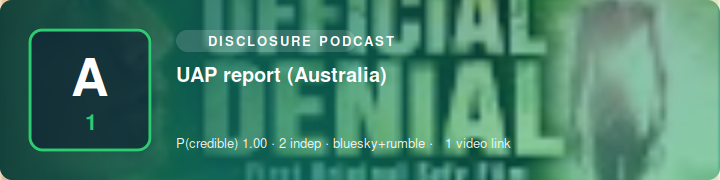
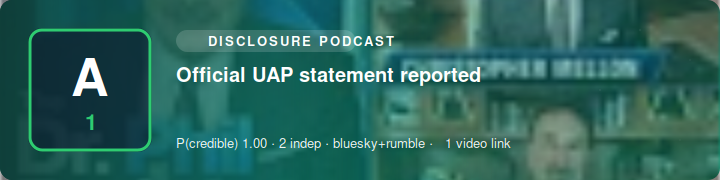
SITREP 2026-08-03 00:30 UTC

diff --git a/index.html b/index.html
@@ -1,1 +1,1 @@
-<!doctype html><meta charset=utf-8><title>Science Bob News — SITREP</title><style>body{font:16px/1.5 system-ui,sans-serif;max-width:760px;margin:2rem auto;padding:0 1rem;color:#111}h1{font-size:1.5rem}h2{margin-top:1.6rem;border-bottom:1px solid #ddd;padding-bottom:.2rem}ul{list-style:none;padding:0}li{margin:.9rem 0}.hl{font-weight:600}.meta{color:#555;font-size:.85rem}.src{font-size:.85rem}.vid{font-size:.85rem;margin-top:.15rem}.card{display:block;max-width:100%;height:auto;border-radius:8px;margin:.4rem 0 .5rem}.upd{background:#fde68a;padding:0 .3rem;border-radius:.2rem;font-size:.75rem}.sub{color:#777;font-size:.85rem}footer{color:#777;font-size:.8rem;margin-top:2rem;border-top:1px solid #ddd;padding-top:.6rem}</style><h1>🛸 Science Bob News</h1><div class="sub">UAP / UFO / USO SITREP · updated 2026-08-03 00:20 UTC · automated</div><h2>Corroborated</h2><ul><li><img class="card" src="https://n4hy.github.io/sciencebobnews-site/card_c_1.svg" alt="" width="720" height="180"><div class="hl">UAP report (Australia)</div><div class="meta">reliability <b>A1</b> · P(credible)=1.0 · 2 independent source(s) · bluesky+rumble</div><div class="src"><a href="https://www.youtube.com/watch?v=ZegQhxJrJGo">@podcast</a> · <a href="https://bsky.app/profile/did:plc:cwzxxtan4z22hv6jl3emlgjv/post/3ms53gbpdd222">@did:plc:cwzxxtan4z22hv6jl3emlgjv</a></div><div class="vid">📹 <a href="https://www.youtube.com/watch?v=ZegQhxJrJGo">video</a></div></li><li><img class="card" src="https://n4hy.github.io/sciencebobnews-site/card_c_2.svg" alt="" width="720" height="180"><div class="hl">UAP report</div><div class="meta">reliability <b>A1</b> · P(credible)=1.0 · 2 independent source(s) · mastodon</div><div class="src"><a href="https://mastodon.au/@vibewire/117027404399127988">@vibewire@mastodon.au</a> · <a href="https://beige.party/@TresFluke/117028360059260175">@TresFluke@beige.party</a></div></li><li><img class="card" src="https://n4hy.github.io/sciencebobnews-site/card_c_3.svg" alt="" width="720" height="180"><div class="hl">UAP report</div><div class="meta">reliability <b>A1</b> · P(credible)=1.0 · 4 independent source(s) · mastodon</div><div class="src"><a href="https://zirk.us/@Doomscroll/117028230320711419">@Doomscroll@zirk.us</a> · <a href="https://infosec.exchange/@n_dimension/117028016111436423">@n_dimension@infosec.exchange</a></div></li></ul><h2>Developing / unconfirmed</h2><ul><li><img class="card" src="https://n4hy.github.io/sciencebobnews-site/card_d_1.svg" alt="" width="720" height="180"><div class="hl">UAP report</div><div class="meta">reliability <b>A1</b> · P(credible)=1.0 · 1 independent source(s) · mastodon</div><div class="src"><a href="https://hachyderm.io/@pragmaticmarg/117010094817149557">@pragmaticmarg@hachyderm.io</a></div></li><li><img class="card" src="https://n4hy.github.io/sciencebobnews-site/card_d_2.svg" alt="" width="720" height="180"><div class="hl">UAP report</div><div class="meta">reliability <b>A1</b> · P(credible)=1.0 · 1 independent source(s) · mastodon</div><div class="src"><a href="https://mastodon.social/@veryexcitingtime/117028427311169939">@veryexcitingtime</a></div></li><li><img class="card" src="https://n4hy.github.io/sciencebobnews-site/card_d_3.svg" alt="" width="720" height="180"><div class="hl">Official UAP statement reported (Your)</div><div class="meta">reliability <b>A1</b> · P(credible)=1.0 · 1 independent source(s) · mastodon</div><div class="src"><a href="https://mastodon.au/@vibewire/117020694971279197">@vibewire@mastodon.au</a></div></li><li><img class="card" src="https://n4hy.github.io/sciencebobnews-site/card_d_4.svg" alt="" width="720" height="180"><div class="hl">UAP report (Moon)</div><div class="meta">reliability <b>A1</b> · P(credible)=1.0 · 1 independent source(s) · mastodon</div><div class="src"><a href="https://mastodon.au/@vibewire/117001180457773006">@vibewire@mastodon.au</a></div></li><li><img class="card" src="https://n4hy.github.io/sciencebobnews-site/card_d_5.svg" alt="" width="720" height="180"><div class="hl">UAP report (Early)</div><div class="meta">reliability <b>A1</b> · P(credible)=1.0 · 1 independent source(s) · rumble</div><div class="src"><a href="https://www.youtube.com/watch?v=IyTeV6kko5A">@podcast</a></div><div class="vid">📹 <a href="https://www.youtube.com/watch?v=IyTeV6kko5A">video</a></div></li></ul><footer><b>Powered by Science Bob News.</b> Free to use with credit (see LICENSE). Headlines are factual restatements in the engine's own words; click sources for originals. Single-origin reposts collapse to one source; prosaic candidates flagged where offered.</footer>
+<!doctype html><meta charset=utf-8><title>Science Bob News — SITREP</title><style>body{font:16px/1.5 system-ui,sans-serif;max-width:760px;margin:2rem auto;padding:0 1rem;color:#111}h1{font-size:1.5rem}h2{margin-top:1.6rem;border-bottom:1px solid #ddd;padding-bottom:.2rem}ul{list-style:none;padding:0}li{margin:.9rem 0}.hl{font-weight:600}.meta{color:#555;font-size:.85rem}.src{font-size:.85rem}.vid{font-size:.85rem;margin-top:.15rem}.card{display:block;max-width:100%;height:auto;border-radius:8px;margin:.4rem 0 .5rem}.upd{background:#fde68a;padding:0 .3rem;border-radius:.2rem;font-size:.75rem}.sub{color:#777;font-size:.85rem}footer{color:#777;font-size:.8rem;margin-top:2rem;border-top:1px solid #ddd;padding-top:.6rem}</style><h1>🛸 Science Bob News</h1><div class="sub">UAP / UFO / USO SITREP · updated 2026-08-03 00:30 UTC · automated</div><h2>Corroborated</h2><ul><li><img class="card" src="https://n4hy.github.io/sciencebobnews-site/card_c_1.svg" alt="" width="720" height="180"><div class="hl">Official UAP statement reported</div><div class="meta">reliability <b>A1</b> · P(credible)=1.0 · 2 independent source(s) · bluesky+rumble</div><div class="src"><a href="https://www.youtube.com/watch?v=QscaracBciE">@podcast</a> · <a href="https://bsky.app/profile/did:plc:4ohgm56lvrcj6p7kjgxz5wey/post/3ms54bzz3vu2p">@did:plc:4ohgm56lvrcj6p7kjgxz5wey</a></div><div class="vid">📹 <a href="https://www.youtube.com/watch?v=QscaracBciE">video</a></div></li><li><img class="card" src="https://n4hy.github.io/sciencebobnews-site/card_c_2.svg" alt="" width="720" height="180"><div class="hl">UAP report</div><div class="meta">reliability <b>A1</b> · P(credible)=1.0 · 2 independent source(s) · mastodon</div><div class="src"><a href="https://mastodon.au/@vibewire/117027404399127988">@vibewire@mastodon.au</a> · <a href="https://beige.party/@TresFluke/117028360059260175">@TresFluke@beige.party</a></div></li><li><img class="card" src="https://n4hy.github.io/sciencebobnews-site/card_c_3.svg" alt="" width="720" height="180"><div class="hl">UAP report</div><div class="meta">reliability <b>A1</b> · P(credible)=1.0 · 4 independent source(s) · mastodon</div><div class="src"><a href="https://zirk.us/@Doomscroll/117028230320711419">@Doomscroll@zirk.us</a> · <a href="https://infosec.exchange/@n_dimension/117028016111436423">@n_dimension@infosec.exchange</a></div></li></ul><h2>Developing / unconfirmed</h2><ul><li><img class="card" src="https://n4hy.github.io/sciencebobnews-site/card_d_1.svg" alt="" width="720" height="180"><div class="hl">UAP report</div><div class="meta">reliability <b>A1</b> · P(credible)=1.0 · 1 independent source(s) · mastodon</div><div class="src"><a href="https://hachyderm.io/@pragmaticmarg/117010094817149557">@pragmaticmarg@hachyderm.io</a></div></li><li><img class="card" src="https://n4hy.github.io/sciencebobnews-site/card_d_2.svg" alt="" width="720" height="180"><div class="hl">UAP report</div><div class="meta">reliability <b>A1</b> · P(credible)=1.0 · 1 independent source(s) · mastodon</div><div class="src"><a href="https://mastodon.social/@veryexcitingtime/117028427311169939">@veryexcitingtime</a></div></li><li><img class="card" src="https://n4hy.github.io/sciencebobnews-site/card_d_3.svg" alt="" width="720" height="180"><div class="hl">Official UAP statement reported (Your)</div><div class="meta">reliability <b>A1</b> · P(credible)=1.0 · 1 independent source(s) · mastodon</div><div class="src"><a href="https://mastodon.au/@vibewire/117020694971279197">@vibewire@mastodon.au</a></div></li><li><img class="card" src="https://n4hy.github.io/sciencebobnews-site/card_d_4.svg" alt="" width="720" height="180"><div class="hl">UAP report (Moon)</div><div class="meta">reliability <b>A1</b> · P(credible)=1.0 · 1 independent source(s) · mastodon</div><div class="src"><a href="https://mastodon.au/@vibewire/117001180457773006">@vibewire@mastodon.au</a></div></li><li><img class="card" src="https://n4hy.github.io/sciencebobnews-site/card_d_5.svg" alt="" width="720" height="180"><div class="hl">UAP report (Early)</div><div class="meta">reliability <b>A1</b> · P(credible)=1.0 · 1 independent source(s) · rumble</div><div class="src"><a href="https://www.youtube.com/watch?v=IyTeV6kko5A">@podcast</a></div><div class="vid">📹 <a href="https://www.youtube.com/watch?v=IyTeV6kko5A">video</a></div></li></ul><footer><b>Powered by Science Bob News.</b> Free to use with credit (see LICENSE). Headlines are factual restatements in the engine's own words; click sources for originals. Single-origin reposts collapse to one source; prosaic candidates flagged where offered.</footer>

diff --git a/sitrep.md b/sitrep.md
@@ -1,13 +1,13 @@
 # 🛸 Science Bob News — UAP / UFO / USO SITREP
-*Updated 2026-08-03 00:20 UTC · auto-generated · sources credited & linked · reliability ratings are automated, not editorial*
+*Updated 2026-08-03 00:30 UTC · auto-generated · sources credited & linked · reliability ratings are automated, not editorial*
 
 ## Corroborated
 
-![UAP report (Australia)](https://n4hy.github.io/sciencebobnews-site/card_c_1.svg)
-1. **UAP report (Australia)**  
+![Official UAP statement reported](https://n4hy.github.io/sciencebobnews-site/card_c_1.svg)
+1. **Official UAP statement reported**  
    reliability **A1** · P(credible)=1.0 · 2 independent source(s) · bluesky+rumble  
-   [@podcast](https://www.youtube.com/watch?v=ZegQhxJrJGo) · [@did:plc:cwzxxtan4z22hv6jl3emlgjv](https://bsky.app/profile/did:plc:cwzxxtan4z22hv6jl3emlgjv/post/3ms53gbpdd222)  
-   📹 [video](https://www.youtube.com/watch?v=ZegQhxJrJGo)
+   [@podcast](https://www.youtube.com/watch?v=QscaracBciE) · [@did:plc:4ohgm56lvrcj6p7kjgxz5wey](https://bsky.app/profile/did:plc:4ohgm56lvrcj6p7kjgxz5wey/post/3ms54bzz3vu2p)  
+   📹 [video](https://www.youtube.com/watch?v=QscaracBciE)
 
 ![UAP report](https://n4hy.github.io/sciencebobnews-site/card_c_2.svg)
 2. **UAP report**  
